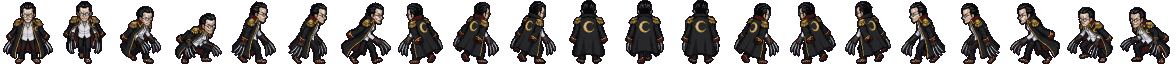
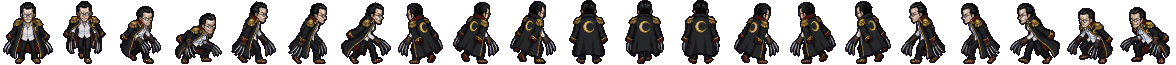
Animación coherente: pies a la misma línea en todos los pasos; fotogramas repetidos sustituidos (Franky, Oars, Enel Soldier, PX-1)

diff --git a/js/data/sprites-built.js b/js/data/sprites-built.js
@@ -13,35 +13,35 @@ G.CUSTOM_SPRITES = Object.assign(G.CUSTOM_SPRITES || {}, {
   crocodile: {"file":"assets/chars/crocodile.png","fw":48,"fh":64,"scale":1,"anims":{"idle":[2],"walk":[8,9,10,11]},"fps":{"idle":1,"walk":7},"body":[2,0,44,64],"dirs":{"down":{"idle":[2],"walk":[0,1,2,3]},"down-right":{"idle":[6],"walk":[4,5,6,7]},"right":{"idle":[10],"walk":[8,9,10,11]},"up-right":{"idle":[13],"walk":[12,13,14,13]},"up":{"idle":[17],"walk":[15,16,17,18]},"up-left":{"idle":[20],"walk":[19,20,21,20]},"left":{"idle":[24],"walk":[22,23,24,25]},"down-left":{"idle":[28],"walk":[26,27,28,29]}}},
   enel: {"file":"assets/chars/enel.png","fw":46,"fh":66,"scale":1,"anims":{"idle":[1],"walk":[4]},"fps":{"idle":1,"walk":7},"body":[5,1,38,65],"dirs":{"down":{"idle":[1],"walk":[0,1]},"down-right":{"idle":[3],"walk":[2,3]},"right":{"idle":[4],"walk":[4]},"up-right":{"idle":[5],"walk":[5]},"up":{"idle":[8],"walk":[6,7,8,9]},"up-left":{"idle":[10],"walk":[10]},"left":{"idle":[11],"walk":[11]},"down-left":{"idle":[13],"walk":[12,13]}}},
   lucci: {"file":"assets/chars/lucci.png","fw":32,"fh":64,"scale":1,"anims":{"idle":[1],"walk":[4,5]},"fps":{"idle":1,"walk":7},"body":[3,0,28,64],"dirs":{"down":{"idle":[1],"walk":[0,1]},"down-right":{"idle":[3],"walk":[2,3]},"right":{"idle":[5],"walk":[4,5]},"up-right":{"idle":[7],"walk":[6,7]},"up":{"idle":[10],"walk":[8,9,10,11]},"up-left":{"idle":[13],"walk":[12,13]},"left":{"idle":[15],"walk":[14,15]},"down-left":{"idle":[17],"walk":[16,17]}}},
-  moria: {"file":"assets/chars/moria.png","fw":56,"fh":78,"scale":1,"anims":{"idle":[2],"walk":[6,7,8,7]},"fps":{"idle":1,"walk":7},"body":[3,4,51,74],"dirs":{"down":{"idle":[2],"walk":[0,1,2,3]},"down-right":{"idle":[5],"walk":[4,5]},"right":{"idle":[7],"walk":[6,7,8,7]},"up-right":{"idle":[10],"walk":[9,10]},"up":{"idle":[12],"walk":[11,12]},"up-left":{"idle":[14],"walk":[13,14]},"left":{"idle":[16],"walk":[15,16,17,16]},"down-left":{"idle":[19],"walk":[18,19]}}},
-  kuro: {"file":"assets/chars/kuro.png","fw":56,"fh":64,"scale":1,"anims":{"idle":[1],"walk":[4,5,6,5]},"fps":{"idle":1,"walk":7},"body":[7,1,43,63],"dirs":{"down":{"idle":[1],"walk":[0,1]},"down-right":{"idle":[3],"walk":[2,3]},"right":{"idle":[5],"walk":[4,5,6,5]},"up-right":{"idle":[8],"walk":[7,8,9,8]},"up":{"idle":[11],"walk":[10,11,12,11]},"up-left":{"idle":[14],"walk":[13,14,15,14]},"left":{"idle":[17],"walk":[16,17,18,17]},"down-left":{"idle":[20],"walk":[19,20]}}},
-  wapol: {"file":"assets/chars/wapol.png","fw":58,"fh":64,"scale":1,"anims":{"idle":[1],"walk":[6,7,8,9]},"fps":{"idle":1,"walk":7},"body":[3,1,52,63],"dirs":{"down":{"idle":[1],"walk":[0,1]},"down-right":{"idle":[4],"walk":[2,3,4,5]},"right":{"idle":[8],"walk":[6,7,8,9]},"up-right":{"idle":[11],"walk":[10,11,12,11]},"up":{"idle":[14],"walk":[13,14,15,14]},"up-left":{"idle":[17],"walk":[16,17,18,17]},"left":{"idle":[21],"walk":[19,20,21,22]},"down-left":{"idle":[25],"walk":[23,24,25,26]}}},
+  moria: {"file":"assets/chars/moria.png","fw":56,"fh":79,"scale":1,"anims":{"idle":[2],"walk":[6,7,8,7]},"fps":{"idle":1,"walk":7},"body":[3,5,51,74],"dirs":{"down":{"idle":[2],"walk":[0,1,2,3]},"down-right":{"idle":[5],"walk":[4,5]},"right":{"idle":[7],"walk":[6,7,8,7]},"up-right":{"idle":[10],"walk":[9,10]},"up":{"idle":[12],"walk":[11,12]},"up-left":{"idle":[14],"walk":[13,14]},"left":{"idle":[16],"walk":[15,16,17,16]},"down-left":{"idle":[19],"walk":[18,19]}}},
+  kuro: {"file":"assets/chars/kuro.png","fw":56,"fh":65,"scale":1,"anims":{"idle":[1],"walk":[4,5,6,5]},"fps":{"idle":1,"walk":7},"body":[7,2,43,63],"dirs":{"down":{"idle":[1],"walk":[0,1]},"down-right":{"idle":[3],"walk":[2,3]},"right":{"idle":[5],"walk":[4,5,6,5]},"up-right":{"idle":[8],"walk":[7,8,9,8]},"up":{"idle":[11],"walk":[10,11,12,11]},"up-left":{"idle":[14],"walk":[13,14,15,14]},"left":{"idle":[17],"walk":[16,17,18,17]},"down-left":{"idle":[20],"walk":[19,20]}}},
+  wapol: {"file":"assets/chars/wapol.png","fw":58,"fh":65,"scale":1,"anims":{"idle":[1],"walk":[6,7,8,9]},"fps":{"idle":1,"walk":7},"body":[3,2,52,63],"dirs":{"down":{"idle":[1],"walk":[0,1]},"down-right":{"idle":[4],"walk":[2,3,4,5]},"right":{"idle":[8],"walk":[6,7,8,9]},"up-right":{"idle":[11],"walk":[10,11,12,11]},"up":{"idle":[14],"walk":[13,14,15,14]},"up-left":{"idle":[17],"walk":[16,17,18,17]},"left":{"idle":[21],"walk":[19,20,21,22]},"down-left":{"idle":[25],"walk":[23,24,25,26]}}},
   morgan: {"file":"assets/chars/morgan.png","fw":50,"fh":62,"scale":1,"anims":{"idle":[3],"walk":[10,11,12,13],"attack":[33,34]},"fps":{"idle":1,"walk":8,"attack":5},"body":[6,0,42,62],"dirs":{"down":{"idle":[3],"walk":[0,1,2,3,4,5]},"down-right":{"idle":[8],"walk":[6,7,8,9]},"right":{"idle":[12],"walk":[10,11,12,13]},"up-right":{"idle":[15],"walk":[14,15,16,15]},"up":{"idle":[19],"walk":[17,18,19,20,21]},"up-left":{"idle":[23],"walk":[22,23,24,23]},"left":{"idle":[27],"walk":[25,26,27,28]},"down-left":{"idle":[31],"walk":[29,30,31,32]}}},
   baroque: {"file":"assets/chars/baroque.png","fw":48,"fh":47,"scale":1,"anims":{"idle":[0],"walk":[1,2,3,4,5,6,7,8]},"fps":{"idle":1,"walk":7},"body":[10,1,28,46]},
+  enelsoldier: {"file":"assets/chars/enelsoldier.png","fw":122,"fh":46,"scale":1,"anims":{"idle":[0],"walk":[1,2,3],"attack":[4]},"fps":{"idle":1,"walk":7,"attack":6},"body":[41,0,39,46]},
+  cp9agent: {"file":"assets/chars/cp9agent.png","fw":64,"fh":54,"scale":1,"anims":{"idle":[0],"walk":[1,2,3,4],"attack":[5]},"fps":{"idle":1,"walk":7,"attack":6},"body":[16,8,42,46]},
+  zombie: {"file":"assets/chars/zombie.png","fw":48,"fh":46,"scale":1,"anims":{"idle":[0],"walk":[1,2,3,4,5],"attack":[6]},"fps":{"idle":1,"walk":7,"attack":6},"body":[10,0,29,46]},
+  pacifista: {"file":"assets/chars/pacifista.png","fw":64,"fh":46,"scale":1,"anims":{"idle":[0],"walk":[1,2,3],"attack":[4]},"fps":{"idle":1,"walk":7,"attack":6},"body":[17,0,30,46]},
   fishman: {"file":"assets/chars/fishman.png","fw":44,"fh":48,"scale":1,"anims":{"idle":[0],"walk":[1,2,3,4,5,6,7,8]},"fps":{"idle":1,"walk":7},"body":[4,2,38,46]},
   toysoldier: {"file":"assets/chars/toysoldier.png","fw":58,"fh":46,"scale":1,"anims":{"idle":[0],"walk":[1,2,3,4],"attack":[5]},"fps":{"idle":1,"walk":7,"attack":6},"body":[17,0,22,46]},
   chess: {"file":"assets/chars/chess.png","fw":74,"fh":52,"scale":1,"anims":{"idle":[0],"walk":[1,2,3],"attack":[4]},"fps":{"idle":1,"walk":7,"attack":6},"body":[16,6,57,46]},
+  gifter: {"file":"assets/chars/gifter.png","fw":46,"fh":49,"scale":1,"anims":{"idle":[0],"walk":[1,2,3,4,5],"attack":[6]},"fps":{"idle":1,"walk":7,"attack":6},"body":[11,3,31,46]},
+  mars: {"file":"assets/chars/mars.png","fw":68,"fh":49,"scale":1,"anims":{"idle":[0],"walk":[1,2,3,4],"attack":[5]},"fps":{"idle":1,"walk":7,"attack":6},"body":[14,3,48,46]},
   jupiter: {"file":"assets/chars/jupiter.png","fw":50,"fh":46,"scale":1,"anims":{"idle":[0],"walk":[1,2,3]},"fps":{"idle":1,"walk":7},"body":[2,0,46,46]},
-  venus: {"file":"assets/chars/venus.png","fw":52,"fh":47,"scale":1,"anims":{"idle":[0],"walk":[1,2,3,4]},"fps":{"idle":1,"walk":7},"body":[5,1,47,46]},
+  venus: {"file":"assets/chars/venus.png","fw":52,"fh":50,"scale":1,"anims":{"idle":[0],"walk":[1,2,3,4]},"fps":{"idle":1,"walk":7},"body":[5,4,47,46]},
   mercury: {"file":"assets/chars/mercury.png","fw":62,"fh":47,"scale":1,"anims":{"idle":[0],"walk":[1,2,3,4],"attack":[5]},"fps":{"idle":1,"walk":7,"attack":6},"body":[7,1,54,46]},
-  saturn: {"file":"assets/chars/saturn.png","fw":64,"fh":46,"scale":1,"anims":{"idle":[0],"walk":[1,2,3,4]},"fps":{"idle":1,"walk":7},"body":[17,0,47,46]},
-  enelsoldier: {"file":"assets/chars/enelsoldier.png","fw":122,"fh":46,"scale":1,"anims":{"idle":[0],"walk":[1,2,3,4],"attack":[5]},"fps":{"idle":1,"walk":7,"attack":6},"body":[41,0,39,46]},
-  cp9agent: {"file":"assets/chars/cp9agent.png","fw":64,"fh":54,"scale":1,"anims":{"idle":[0],"walk":[1,2,3,4],"attack":[5]},"fps":{"idle":1,"walk":7,"attack":6},"body":[16,8,42,46]},
-  zombie: {"file":"assets/chars/zombie.png","fw":48,"fh":46,"scale":1,"anims":{"idle":[0],"walk":[1,2,3,4,5],"attack":[6]},"fps":{"idle":1,"walk":7,"attack":6},"body":[10,0,29,46]},
-  pacifista: {"file":"assets/chars/pacifista.png","fw":64,"fh":46,"scale":1,"anims":{"idle":[0],"walk":[1,2,3,4],"attack":[5]},"fps":{"idle":1,"walk":7,"attack":6},"body":[17,0,30,46]},
-  gifter: {"file":"assets/chars/gifter.png","fw":46,"fh":46,"scale":1,"anims":{"idle":[0],"walk":[1,2,3,4,5],"attack":[6]},"fps":{"idle":1,"walk":7,"attack":6},"body":[11,0,31,46]},
-  mars: {"file":"assets/chars/mars.png","fw":68,"fh":46,"scale":1,"anims":{"idle":[0],"walk":[1,2,3,4],"attack":[5]},"fps":{"idle":1,"walk":7,"attack":6},"body":[14,0,48,46]},
+  saturn: {"file":"assets/chars/saturn.png","fw":64,"fh":51,"scale":1,"anims":{"idle":[0],"walk":[1,2,3,4]},"fps":{"idle":1,"walk":7},"body":[17,5,47,46]},
   smoker: {"file":"assets/chars/smoker.png","fw":114,"fh":46,"scale":1,"anims":{"idle":[0],"walk":[1,2,3],"attack":[4]},"fps":{"idle":1,"walk":7,"attack":6},"body":[37,0,40,46]},
   mr9: {"file":"assets/chars/mr9.png","fw":46,"fh":50,"scale":1,"anims":{"idle":[0],"walk":[1,2,3],"attack":[4]},"fps":{"idle":1,"walk":7,"attack":6},"body":[7,4,32,46]},
   wednesday: {"file":"assets/chars/wednesday.png","fw":42,"fh":46,"scale":1,"anims":{"idle":[0],"walk":[1,2,3],"attack":[4]},"fps":{"idle":1,"walk":7,"attack":6},"body":[7,0,26,46]},
   mr5: {"file":"assets/chars/mr5.png","fw":36,"fh":46,"scale":1,"anims":{"idle":[0],"walk":[1,2,3,4],"attack":[5]},"fps":{"idle":1,"walk":7,"attack":6},"body":[9,0,21,46]},
-  valentine: {"file":"assets/chars/valentine.png","fw":56,"fh":46,"scale":1,"anims":{"idle":[0],"walk":[1,2,3],"attack":[4]},"fps":{"idle":1,"walk":7,"attack":6},"body":[14,0,27,46]},
+  valentine: {"file":"assets/chars/valentine.png","fw":56,"fh":47,"scale":1,"anims":{"idle":[0],"walk":[1,2,3],"attack":[4]},"fps":{"idle":1,"walk":7,"attack":6},"body":[14,1,27,46]},
   bellamy: {"file":"assets/chars/bellamy.png","fw":60,"fh":46,"scale":1,"anims":{"idle":[0],"walk":[1,2,3,4],"attack":[5]},"fps":{"idle":1,"walk":7,"attack":6},"body":[19,0,22,46]},
   foxy: {"file":"assets/chars/foxy.png","fw":46,"fh":46,"scale":1,"anims":{"idle":[0],"walk":[1,2,3,4],"attack":[5]},"fps":{"idle":1,"walk":7,"attack":6},"body":[4,0,40,46]},
-  franky: {"file":"assets/chars/franky.png","fw":46,"fh":47,"scale":1,"anims":{"idle":[0],"walk":[1,2,3,4],"attack":[5]},"fps":{"idle":1,"walk":7,"attack":6},"body":[1,1,38,46]},
+  franky: {"file":"assets/chars/franky.png","fw":48,"fh":47,"scale":1,"anims":{"idle":[0],"walk":[1,2,3,4],"attack":[5]},"fps":{"idle":1,"walk":7,"attack":6},"body":[2,1,38,46]},
   garp: {"file":"assets/chars/garp.png","fw":48,"fh":47,"scale":1,"anims":{"idle":[0],"walk":[1,2,3,4],"attack":[5]},"fps":{"idle":1,"walk":7,"attack":6},"body":[12,1,25,46]},
   perona: {"file":"assets/chars/perona.png","fw":36,"fh":46,"scale":1,"anims":{"idle":[0],"walk":[1,2,3,4],"attack":[5]},"fps":{"idle":1,"walk":7,"attack":6},"body":[6,0,23,46]},
-  oars: {"file":"assets/chars/oars.png","fw":70,"fh":48,"scale":1,"anims":{"idle":[0],"walk":[1,2,3,4],"attack":[5]},"fps":{"idle":1,"walk":7,"attack":6},"body":[15,2,40,46]},
+  oars: {"file":"assets/chars/oars.png","fw":70,"fh":48,"scale":1,"anims":{"idle":[0],"walk":[1,2,3],"attack":[4]},"fps":{"idle":1,"walk":7,"attack":6},"body":[15,2,40,46]},
   kizaru: {"file":"assets/chars/kizaru.png","fw":68,"fh":46,"scale":1,"anims":{"idle":[0],"walk":[1,2,3,4],"attack":[5]},"fps":{"idle":1,"walk":7,"attack":6},"body":[17,0,32,46]},
   hancock: {"file":"assets/chars/hancock.png","fw":46,"fh":46,"scale":1,"anims":{"idle":[0],"walk":[1,2,3,4],"attack":[5]},"fps":{"idle":1,"walk":7,"attack":6},"body":[11,0,25,46]},
   magellan: {"file":"assets/chars/magellan.png","fw":50,"fh":47,"scale":1,"anims":{"idle":[0],"walk":[1,2,3,4],"attack":[5]},"fps":{"idle":1,"walk":7,"attack":6},"body":[8,1,31,46]},
@@ -52,6 +52,6 @@ G.CUSTOM_SPRITES = Object.assign(G.CUSTOM_SPRITES || {}, {
   doflamingo: {"file":"assets/chars/doflamingo.png","fw":56,"fh":46,"scale":1,"anims":{"idle":[0],"walk":[1,2,3,4],"attack":[5]},"fps":{"idle":1,"walk":7,"attack":6},"body":[7,0,46,46]},
   jack: {"file":"assets/chars/jack.png","fw":40,"fh":46,"scale":1,"anims":{"idle":[0],"walk":[1,2,3,4],"attack":[5]},"fps":{"idle":1,"walk":7,"attack":6},"body":[5,0,32,46]},
   katakuri: {"file":"assets/chars/katakuri.png","fw":42,"fh":46,"scale":1,"anims":{"idle":[0],"walk":[1,2,3,4],"attack":[5]},"fps":{"idle":1,"walk":7,"attack":6},"body":[10,0,25,46]},
-  queen: {"file":"assets/chars/queen.png","fw":50,"fh":46,"scale":1,"anims":{"idle":[0],"walk":[1,2,3,4],"attack":[5]},"fps":{"idle":1,"walk":7,"attack":6},"body":[0,0,45,46]},
-  kaido: {"file":"assets/chars/kaido.png","fw":56,"fh":47,"scale":1,"anims":{"idle":[0],"walk":[1,2,3,4],"attack":[5]},"fps":{"idle":1,"walk":7,"attack":6},"body":[9,1,45,46]}
+  queen: {"file":"assets/chars/queen.png","fw":50,"fh":48,"scale":1,"anims":{"idle":[0],"walk":[1,2,3,4],"attack":[5]},"fps":{"idle":1,"walk":7,"attack":6},"body":[0,2,45,46]},
+  kaido: {"file":"assets/chars/kaido.png","fw":56,"fh":48,"scale":1,"anims":{"idle":[0],"walk":[1,2,3,4],"attack":[5]},"fps":{"idle":1,"walk":7,"attack":6},"body":[9,2,45,46]}
 });

diff --git a/tools/auto-enemy.js b/tools/auto-enemy.js
@@ -45,6 +45,7 @@ function background(img) {
 
 /** Poses elegidas a mano (coordenadas del atlas): tienen prioridad sobre la detección automática. */
 const MANUAL = {
+  pacifista: { bg: '#ebebeb', walk: [[15, 55, 135, 215], [175, 55, 135, 215], [335, 55, 135, 215]], attack: [[210, 310, 230, 215]] },
   kaido: { bg: '#ebebeb', walk: [[300, 5, 210, 210], [510, 5, 210, 215], [300, 245, 210, 210], [510, 245, 210, 210]], attack: [[110, 600, 215, 200]] },
   queen: { bg: '#ebebeb', walk: [[10, 55, 240, 245], [260, 55, 240, 245], [495, 55, 240, 245], [725, 55, 240, 245]], attack: [[5, 1085, 250, 215]] },
   katakuri: { bg: '#ebebeb', walk: [[0, 0, 110, 205], [120, 0, 110, 205], [245, 0, 110, 205], [370, 0, 110, 205]], attack: [[500, 790, 170, 230]] },
@@ -57,10 +58,10 @@ const MANUAL = {
   magellan: { bg: '#ebebeb', walk: [[10, 55, 150, 225], [170, 55, 150, 225], [330, 55, 150, 225], [490, 60, 170, 215]], attack: [[690, 65, 210, 210]] },
   hancock: { bg: '#ebebeb', walk: [[15, 55, 100, 190], [145, 55, 100, 190], [270, 55, 100, 190], [400, 55, 100, 190]], attack: [[495, 265, 140, 185]] },
   kizaru: { bg: '#ebebeb', walk: [[20, 65, 135, 200], [180, 65, 135, 200], [335, 65, 135, 200], [500, 65, 135, 200]], attack: [[630, 610, 270, 190]] },
-  oars: { bg: '#ebebeb', walk: [[20, 65, 225, 260], [275, 65, 225, 260], [530, 65, 225, 260], [785, 65, 225, 260]], attack: [[10, 345, 310, 270]] },
+  oars: { bg: '#ebebeb', walk: [[20, 65, 225, 260], [340, 345, 280, 270], [660, 345, 320, 270]], attack: [[10, 345, 310, 270]] },
   perona: { bg: '#ebebeb', walk: [[15, 75, 100, 205], [140, 75, 100, 205], [265, 75, 100, 205], [400, 75, 100, 205]], attack: [[30, 315, 150, 170]] },
   garp: { bg: '#ebebeb', walk: [[30, 90, 130, 230], [225, 90, 130, 230], [420, 90, 130, 230], [620, 90, 130, 230]], attack: [[410, 375, 205, 180]] },
-  franky: { bg: '#ebebeb', walk: [[20, 55, 165, 200], [210, 55, 165, 200], [405, 55, 165, 200], [598, 55, 165, 200]], attack: [[180, 855, 165, 200]] },
+  franky: { bg: '#ebebeb', walk: [[20, 55, 165, 200], [60, 285, 165, 200], [300, 285, 165, 200], [655, 290, 165, 190]], attack: [[180, 855, 165, 200]] },
   foxy: { bg: '#ebebeb', walk: [[15, 55, 170, 190], [190, 55, 170, 190], [390, 55, 170, 190], [585, 55, 175, 190]], attack: [[180, 280, 135, 185]] },
   bellamy: { bg: '#ebebeb', walk: [[20, 60, 95, 200], [145, 60, 95, 200], [265, 60, 150, 200], [425, 60, 160, 200]], attack: [[30, 315, 190, 185]] },
   valentine: { bg: '#ebebeb', walk: [[40, 55, 110, 200], [230, 55, 110, 200], [420, 55, 120, 200]], attack: [[500, 810, 150, 230]] },
@@ -68,9 +69,8 @@ const MANUAL = {
   wednesday: { bg: '#ebebeb', walk: [[40, 55, 110, 205], [230, 55, 110, 205], [420, 55, 110, 205]], attack: [[15, 855, 150, 200]] },
   mr9: { bg: '#ebebeb', walk: [[45, 75, 125, 180], [200, 75, 120, 180], [360, 75, 120, 180]], attack: [[290, 850, 150, 200]] },
   smoker: { bg: '#ebebeb', walk: [[15, 80, 160, 180], [205, 80, 160, 180], [400, 80, 150, 180]], attack: [[700, 885, 330, 175]] },
-  enelsoldier: { bg: '#ebebeb', walk: [[20, 85, 145, 170], [208, 85, 150, 170], [405, 85, 145, 170], [598, 85, 147, 170]], attack: [[280, 300, 300, 135]] },
+  enelsoldier: { bg: '#ebebeb', walk: [[20, 85, 145, 170], [208, 85, 150, 170], [598, 85, 147, 170]], attack: [[280, 300, 300, 135]] },
   zombie:      { bg: '#ebebeb', walk: [[45, 55, 115, 180], [240, 55, 140, 180], [420, 55, 120, 180], [50, 885, 120, 170], [240, 885, 120, 170]], attack: [[25, 310, 165, 170]] },
-  pacifista:   { bg: '#ebebeb', walk: [[15, 55, 135, 215], [175, 55, 135, 215], [335, 55, 135, 215], [495, 55, 135, 215]], attack: [[210, 310, 230, 215]] },
   gifter:      { bg: '#ebebeb', walk: [[25, 75, 100, 150], [150, 75, 100, 150], [280, 75, 110, 150], [410, 85, 150, 140], [600, 85, 150, 140]], attack: [[40, 715, 120, 150]] },
   mars:        { bg: '#ebebeb', walk: [[35, 5, 275, 260], [345, 5, 270, 260], [645, 5, 270, 260], [35, 285, 280, 240]], attack: [[5, 1035, 350, 215]] },
   toysoldier:  { bg: '#ebebeb', walk: [[20, 55, 90, 200], [150, 55, 95, 200], [275, 55, 90, 200], [780, 55, 100, 200]], attack: [[390, 135, 190, 120]] },

diff --git a/tools/enemy.config.js b/tools/enemy.config.js
@@ -19,7 +19,7 @@ module.exports = {
       fps: { idle: 1, walk: 7, attack: 6 },
       anims: {
         idle: [[20, 85, 145, 170]],
-        walk: [[20, 85, 145, 170], [208, 85, 150, 170], [405, 85, 145, 170], [598, 85, 147, 170]],
+        walk: [[20, 85, 145, 170], [208, 85, 150, 170], [598, 85, 147, 170]],
         attack: [[280, 300, 300, 135]]
       }
     },
@@ -52,7 +52,7 @@ module.exports = {
       fps: { idle: 1, walk: 7, attack: 6 },
       anims: {
         idle: [[15, 55, 135, 215]],
-        walk: [[15, 55, 135, 215], [175, 55, 135, 215], [335, 55, 135, 215], [495, 55, 135, 215]],
+        walk: [[15, 55, 135, 215], [175, 55, 135, 215], [335, 55, 135, 215]],
         attack: [[210, 310, 230, 215]]
       }
     },
@@ -231,7 +231,7 @@ module.exports = {
       fps: { idle: 1, walk: 7, attack: 6 },
       anims: {
         idle: [[20, 55, 165, 200]],
-        walk: [[20, 55, 165, 200], [210, 55, 165, 200], [405, 55, 165, 200], [598, 55, 165, 200]],
+        walk: [[20, 55, 165, 200], [60, 285, 165, 200], [300, 285, 165, 200], [655, 290, 165, 190]],
         attack: [[180, 855, 165, 200]]
       }
     },
@@ -264,7 +264,7 @@ module.exports = {
       fps: { idle: 1, walk: 7, attack: 6 },
       anims: {
         idle: [[20, 65, 225, 260]],
-        walk: [[20, 65, 225, 260], [275, 65, 225, 260], [530, 65, 225, 260], [785, 65, 225, 260]],
+        walk: [[20, 65, 225, 260], [340, 345, 280, 270], [660, 345, 320, 270]],
         attack: [[10, 345, 310, 270]]
       }
     },

diff --git a/tools/build-sprites.js b/tools/build-sprites.js
@@ -176,9 +176,15 @@ function build(id, cfg, K) {
   // Celda común: pies abajo y centrados en el punto de apoyo de cada fotograma.
   const anchors = done.map((d, i) => P.anchor(d).x - order[i].dx);
   const half = Math.max(...done.map((d, i) => Math.max(anchors[i], d.w - anchors[i])));
-  const fw = half * 2, fh = Math.max(...done.map(d => d.h));
-  const strip = P.blank(fw * done.length, fh);
-  done.forEach((d, i) => P.blit(strip, d, i * fw + half - anchors[i], fh - d.h));
+  // Línea de pies común: la última fila con píxeles de cada fotograma (no la base del recorte,
+  // que cambia según la caja elegida). Así los pasos de andar no bailan de arriba abajo.
+  const feetRow = d => { for (let y = d.h - 1; y >= 0; y--) { let n = 0; for (let x = 0; x < d.w; x++) if (d.data[(y * d.w + x) * 4 + 3] && ++n >= 2) return y; } return d.h - 1; };
+  const fr = done.map(feetRow);
+  const G = Math.max(0, ...done.map((d, i) => d.h - 1 - fr[i]));
+  const fh = Math.max(...done.map((d, i) => 1 + G + fr[i]));
+  const strip = P.blank(half * 2 * done.length, fh);
+  done.forEach((d, i) => P.blit(strip, d, i * half * 2 + half - anchors[i], fh - 1 - G - fr[i]));
+  const fw = half * 2;
 
   const file = 'assets/chars/' + id + '.png';
   fs.mkdirSync(path.join(ROOT, 'assets/chars'), { recursive: true });
